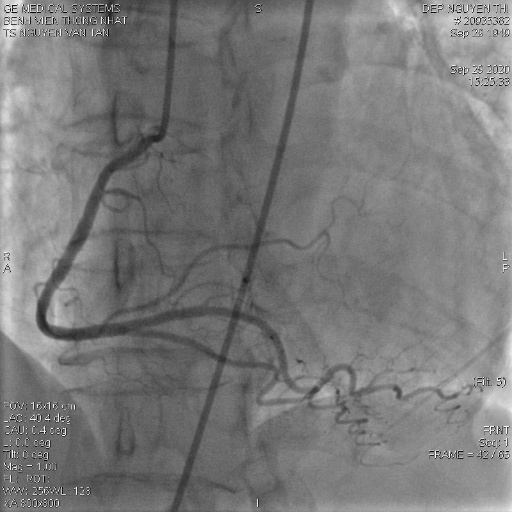
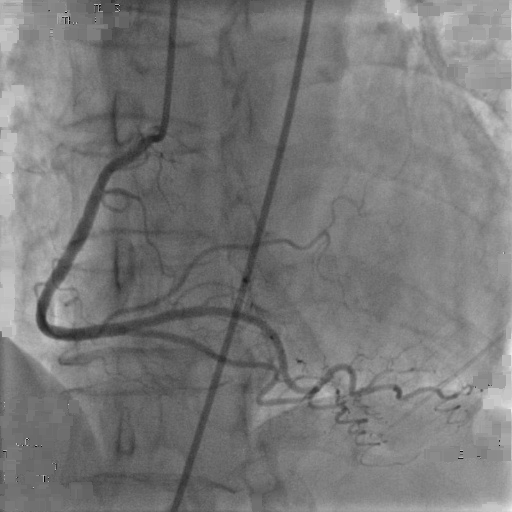
Up code

diff --git a/remove_text.py b/remove_text.py
@@ -1,0 +1,26 @@
+import cv2
+import numpy as np
+from cv2_morphology import *
+
+def remove_text(grayscale_img, color_threshold, blur_size):
+    h, w = grayscale_img.shape
+    _, thresh = cv2.threshold(grayscale_img, color_threshold, 255, cv2.THRESH_BINARY)
+    tophat_img = tophat(thresh, 3)
+
+    result = img.copy()
+    (rows, cols) = np.nonzero(tophat_img)
+    for (r, c) in zip(rows, cols):
+        r1 = max(0, r-blur_size)
+        r2 = min(h-1, r+blur_size)
+        c1 = max(0, c-blur_size)
+        c2 = min(w-1, c+blur_size)
+        kernel_img = img[r1:r2, c1:c2]
+        result[r1:r2, c1:c2] = np.average(kernel_img)
+    
+    return result
+
+if __name__ == "__main__":
+    img = cv2.imread('images/07.png', 0)
+    # img = cv2.imread('test.png', 0)
+    removed_img = remove_text(img, 200, 5)
+    cv2.imwrite('07.png', removed_img)
